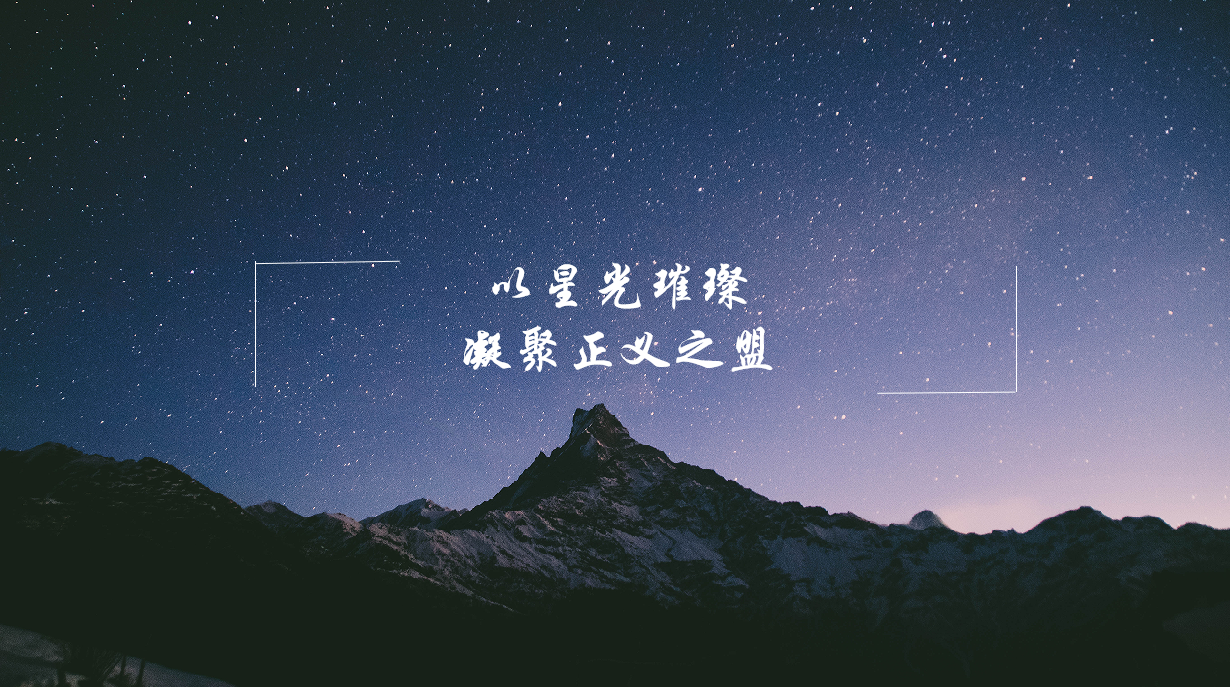
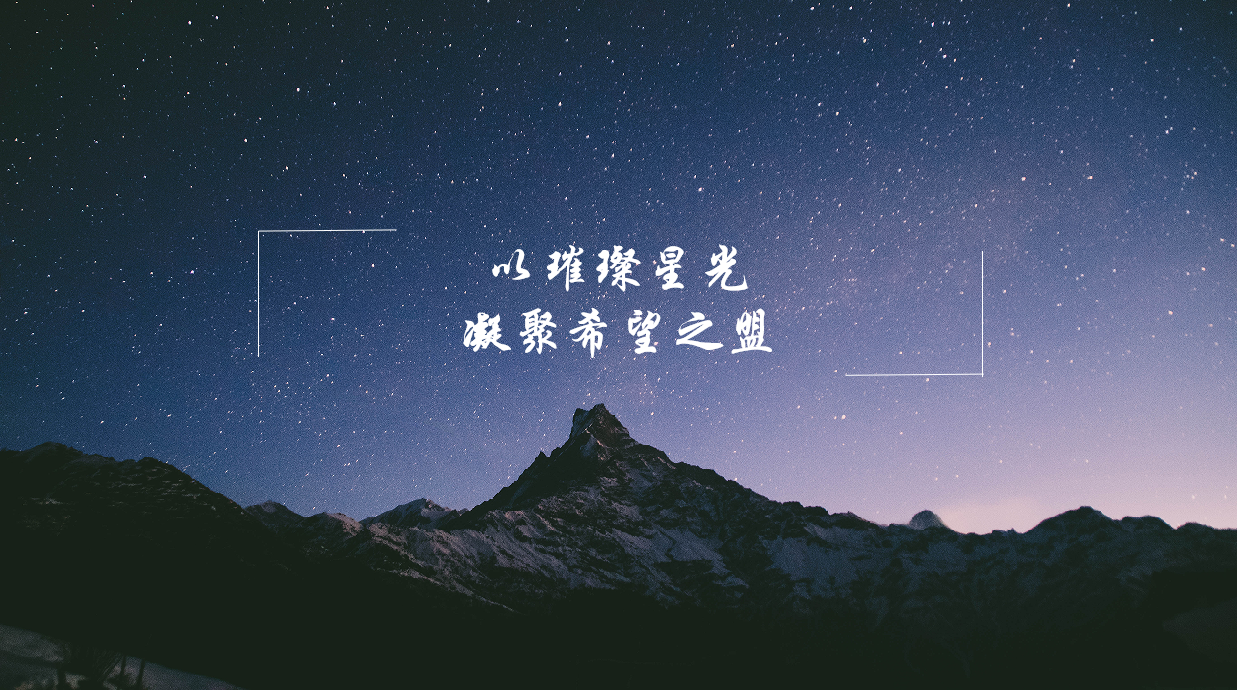
fix bug

diff --git a/src/introduction.html b/src/introduction.html
@@ -560,7 +560,7 @@
                                                     蓝江律师&nbsp;创始人</a>
                                                     <div class="dashline"></div>
                                                 </p>
-                                                <p class="intro">
+                                                <p class="contents">
                                                     蓝江律师毕业于上海财经大学法学院，获硕士学位，留学美国伊利诺伊大学香槟分校（UIUC）法学院，获硕士学位，现担任上海市律师协会公司与商事业务委员会委员。
                                                     蓝江律师同时拥有中国和美国纽约州律师执业资格，曾先后就职于艾格峰律师事务所、中伦律师事务所等外资和国内顶尖的律师事务所，能够熟练地使用中文和英文为客户提供法律服务。
                                                     蓝江律师在公司法、劳动人事合规、融资并购、重大商事争议解决领域拥有十多年的执业经验。
@@ -587,7 +587,7 @@
                                                     </a>
                                                     <div class="dashline"></div>
                                                 </p>
-                                                <p class="intro">
+                                                <p class="contents">
                                                     刘晓宇律师毕业于华东政法大学，获法学学士、硕士学位。刘晓宇律师拥有多年法律实务经验，曾执业于京都律师事务所、浩信律师事务所等国内综合型律师事务所，
                                                     现为上海星盟律师事务所合伙人。
                                                     刘晓宇律师专职从事民商事案件代理与刑事辩护工作，曾参与多起重大、复杂的公司、合同、商事纠纷案件的代理与经济犯罪、职务犯罪等刑事案件的辩护工作，
@@ -615,7 +615,7 @@
                                                     </a>
                                                     <div class="dashline"></div>
                                                 </p>
-                                                <p class="intro">
+                                                <p class="contents">
                                                     徐晓娜律师拥有11余年法院和律师工作经验。徐律师自 2012 年起在江苏省某法院担任代理审判员和审判员，在审判一线审理过上千起民事案件。
                                                     自2017年起，徐律师开始从事律师职业后，也办理过百余起案件。徐晓娜律师专职从事于公司、合同、商事案件的代理工作，
                                                     曾参与多起重大复杂的民商事、投资、合同、破产、股东纠纷和执行等案件的代理，办理过经济类刑事案件、民刑交叉案件，尤以合同、公司、家事案件为专长。
@@ -643,7 +643,7 @@
                                                     </a>
                                                     <div class="dashline"></div>
                                                 </p>
-                                                <p class="intro">
+                                                <p class="contents">
                                                     孙胜贤律师毕业于辽宁大学法学院，获硕士学位。孙胜贤律师专注于房地产、建筑工程、公司投融资等领域的民商事争议解决以及非诉法律业务。
                                                     孙律师拥有多年房地产、建筑工程、金融等行业工作经验，熟悉房地产、建筑工程、金融/基金等领域相关法律业务，
                                                     包含收并购、诉讼、合规、风控等，参与过数十个房地产项目投资过程中的各种商务谈判、尽职调查、交易结构设计以及文件起草等工作。
@@ -671,7 +671,7 @@
                                                     </a>
                                                     <div class="dashline"></div>
                                                 </p>
-                                                <p class="intro">
+                                                <p class="contents">
                                                     王赫律师拥有三年律所工作经验，执业以来恪守律师职业道德和执业纪律，全面开展律师的各项业务工作。
                                                     擅长民商事及涉及公司的法律事务，对企业经济纠纷，公司法务工作、各类合同纠纷、债权债务纠纷、劳动争议纠纷等法律事务具有丰富经验。
                                                     法律功底深厚，业务沟通交际能力强，办案思维清晰、敏捷，工作认真，待人真诚，客户信任度高。

diff --git a/src/services.html b/src/services.html
@@ -529,7 +529,7 @@
                     <div class="columns">
                         <div class="column is-3">
                             <div class="title has-text-centered-mobile">服务领域</div>
-                            <div class="categorys">
+                            <div class="categorys is-hidden-mobile">
                                 <div class="category" style="padding-left: 0rem">民商事诉讼
                                 </div>
                                 <div class="category" style="padding-left: 0rem">刑事辩护与代理
@@ -552,7 +552,7 @@
                                             <div class="content">
                                                 <div>
                                                     <a href="" class="title" title="民商事诉讼">民商事诉讼</a>
-                                                    <p class="intro">
+                                                    <p class="contents">
                                                         民商事诉讼是星盟律师的传统优势业务，在多年执业过程中，星盟律师积累了处理复杂民商事争议的丰富经验，
                                                         星盟律师会针对具体案件的事实、证据、法律关系、争议事实进行综合分析，根据当事人实际需要提供切实、可行的法律对策，
                                                         为委托人提供专业高效的法律服务。
@@ -573,7 +573,7 @@
                                             <div class="content">
                                                 <div>
                                                     <a href="" class="title" title="刑事辩护与代理">刑事辩护与代理</a>
-                                                    <p class="intro">
+                                                    <p class="contents">
                                                         在刑事诉讼领域，星盟拥有多位具有资深刑事执业经验的律师，先后代理多起重大刑事案件，为当事人争取了无罪、罪轻、缓刑等辩护结果，
                                                         维护了当事人合法权益，星盟律师处理的案件包括但不限于经济犯罪、职务犯罪、金融犯罪、走私犯罪、税务犯罪、知识产权犯罪案件等。 
                                                     </p>
@@ -594,7 +594,7 @@
                                             <div class="content">
                                                 <div>
                                                     <a href="" class="title" title="公司与合规">公司与合规</a>
-                                                    <p class="intro">
+                                                    <p class="contents">
                                                         随着企业自身业务信息化和专业化程度的加深，同时伴随着外部监管环境的日趋复杂，企业需要应对大量以及新出现的法律与合规问题。
                                                         上海星盟律师事务所在既有法律实践的基础上，加强了合规方面的业务，以一贯的专业能力有效地协助客户处理所遇的特殊状况，从而保护客户的利益。
                                                     </p>
@@ -614,7 +614,7 @@
                                             <div class="content">
                                                 <div>
                                                     <a href="" class="title" title="公司常年法律顾问">公司常年法律顾问</a>
-                                                    <p class="intro">
+                                                    <p class="contents">
                                                         星盟律师可以为企业经营过程中常见的法律问题提供一站式解决方案，包括但不限于企业的劳动与人事合规制度构建、
                                                         企业的商务合同范本构建、刑事合规制度建设等。星盟律师致力于为企业减少不必要的争端以及损失,让企业家和公司没有后顾之忧全力谋发展。
                                                     </p>

diff --git a/src/index.html b/src/index.html
@@ -253,13 +253,17 @@
                     background-repeat: no-repeat; 
                     background-position: center center; 
                 }
+                
+                .stuck{
+                    position:fixed;
+                }
             }
 
             @media screen and (max-width: 768px) {
                 #header_1{
-                    background-image: url(./image/homebanner.png); 
-                    height: 100vh; 
-                    background-size: auto 100% ; 
+                    background-image: url(./image/homebanner1.png); 
+                    height: 100vh;
+                    background-size: cover; 
                     background-repeat: no-repeat; 
                     background-position: center center; 
                 }

diff --git a/src/css/header1.css b/src/css/header1.css
@@ -275,7 +275,6 @@ a.more {
 }
 
 .stuck {
-    position: fixed;
     width: 100%;
     top: 0;
     z-index: 100;
